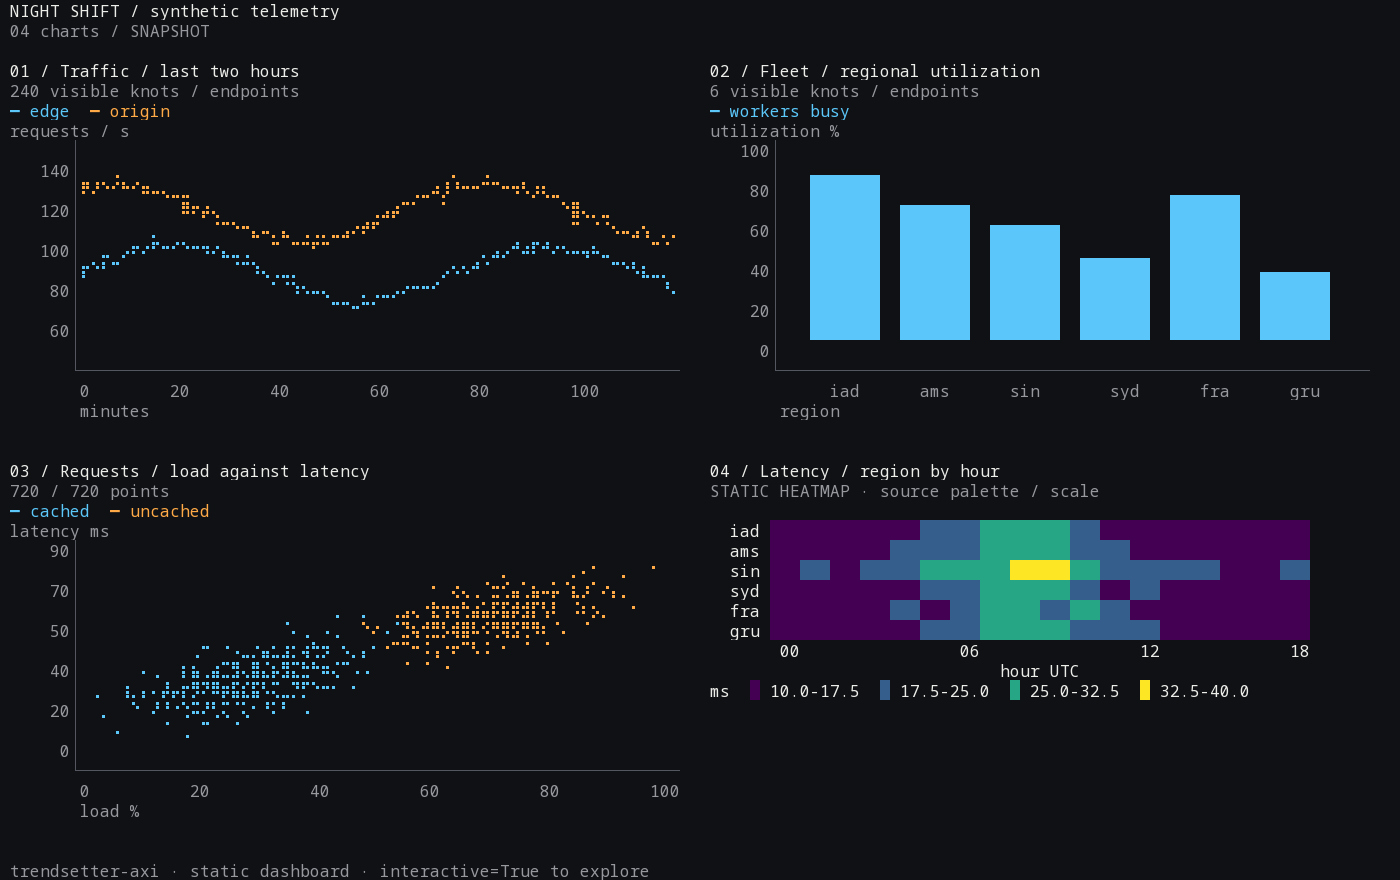
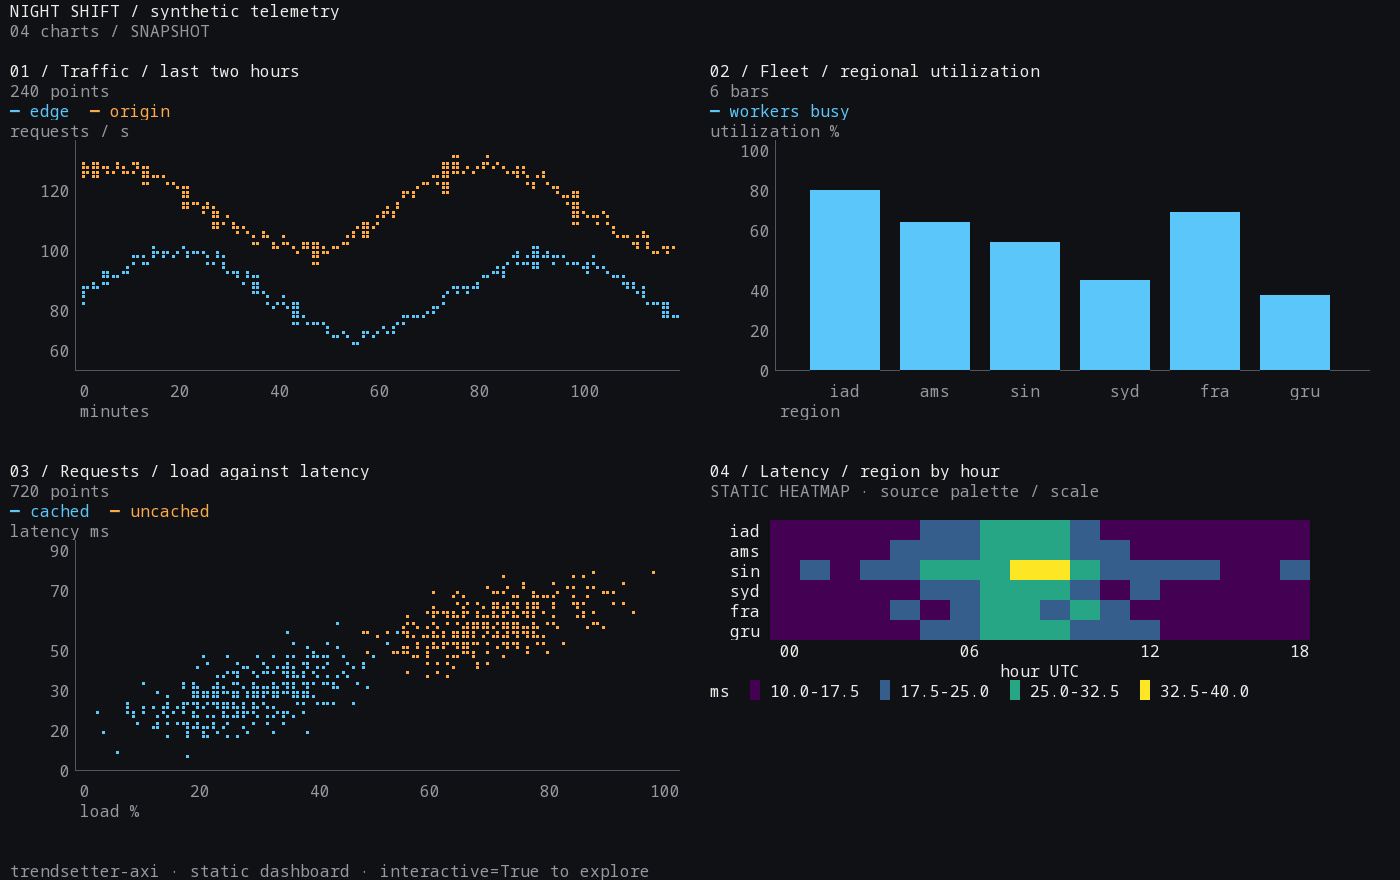
fix: anchor dashboard bars to zero axis

diff --git a/src/trendsetter_axi/dashboards.py b/src/trendsetter_axi/dashboards.py
@@ -112,7 +112,10 @@ def _plot(v, screen):
             for point in points:
                 c0, r0, c1, r1 = v.bar_bounds(point)
                 if all(map(math.isfinite, (c0, r0, c1, r1))):
-                    canvas.fill([[(c0, r0 * 2), (c1, r0 * 2), (c1, r1 * 2), (c0, r1 * 2)]],
+                    # Projection rows denote cell centers. Fill edges must use
+                    # the same center, especially at zero on the baseline.
+                    canvas.fill([[(c0, r0 * 2 + 1), (c1, r0 * 2 + 1),
+                                  (c1, r1 * 2 + 1), (c0, r1 * 2 + 1)]],
                                 tuple(c / 255 for c in rgb), clip=clip, role='data')
         elif m['kind'] == 'points':
             for a in points:
@@ -150,9 +153,10 @@ def _plot(v, screen):
 def _axes(v, screen):
     p, axis = v.projection, v.record['axes'][0]
     screen.put(3, 0, truncate(axis['y'].get('label') or 'y', v.cols), MUTED)
-    for r in range(p.top, p.top + p.rows):
+    bottom = p.top + p.rows - 1  # The projected minimum, not a row below it.
+    for r in range(p.top, bottom):
         screen.put(r, p.left - 1, '│', FAINT)
-    screen.put(p.top + p.rows, p.left - 1, '└' + '─' * p.cols, FAINT)
+    screen.put(bottom, p.left - 1, '└' + '─' * p.cols, FAINT)
     occupied = {'x': set(), 'y': set()}
     for k in 'xy':
         for tick in axis[k].get('ticks', []):
@@ -168,11 +172,11 @@ def _axes(v, screen):
                 if span & occupied[k]:
                     continue
                 occupied[k].update(span)
-                screen.put(p.top + p.rows + 1, c, label, MUTED)
+                screen.put(bottom + 1, c, label, MUTED)
             elif not {r - 1, r, r + 1} & occupied[k]:
                 occupied[k].add(r)
                 screen.put(r, 0, label.rjust(6), MUTED)
-    screen.put(p.top + p.rows + 2, p.left, truncate(axis['x'].get('label') or 'x', p.cols), MUTED)
+    screen.put(bottom + 2, p.left, truncate(axis['x'].get('label') or 'x', p.cols), MUTED)
 
 
 class Dashboard:
@@ -210,7 +214,7 @@ class Dashboard:
             v.cols, v.rows = tile.cols, tile.rows
             if not v.reason:
                 try:
-                    v.projection = Projection(v.record['axes'][0], 7, 4, tile.cols - 9, tile.rows - 8)
+                    v.projection = Projection(v.record['axes'][0], 7, 4, tile.cols - 9, tile.rows - 7)
                 except ValueError as exc:
                     v.reason = str(exc)
 
@@ -263,10 +267,18 @@ class Dashboard:
             _paste(screen, self.cache[index], 0, 3)
             return screen
         visible = [p for p in v.points if v.projection.visible(p.x, p.y)]
-        caption = f'{len(visible):,} visible knots / endpoints' if not v.has_scatter else f'{len(v.chosen()):,} / {sum(p.kind == "points" for p in visible):,} points'
+        has_bars = any(m['kind'] == 'bars' for m in v.record['marks'])
+        has_points = any(m['kind'] in ('line', 'points') for m in v.record['marks'])
+        counts = []
+        if has_points or not has_bars:
+            counts.append(f'{sum(p.kind != "bars" for p in visible):,} points')
+        if has_bars:
+            counts.append(f'{sum(p.kind == "bars" for p in visible):,} bars')
+        caption = ' · '.join(counts)
         if v.box:
             result = stats(v.chosen())
-            caption += f' selected · r={result["correlation"]:.3f}' if result['correlation'] is not None else ' selected · r=n/a'
+            caption = f'{len(v.chosen()):,} / {sum(p.kind == "points" for p in visible):,} points selected'
+            caption += f' · r={result["correlation"]:.3f}' if result['correlation'] is not None else ' · r=n/a'
         if any(m['kind'] == 'bars' and 'width' not in m for m in v.record['marks']):
             caption += ' · widths estimated'
         screen.put(1, 0, truncate(caption, t.cols), GOOD if v.box else MUTED)
@@ -278,8 +290,8 @@ class Dashboard:
             col += width(label) + 2
             if col >= t.cols:
                 break
-        _plot(v, screen)
         _axes(v, screen)
+        _plot(v, screen)  # Keep the bar's upper half-cell touching its baseline.
         return screen
 
     def frame(self, *, interactive=True, live=False):

diff --git a/tests/test_dashboard.py b/tests/test_dashboard.py
@@ -199,6 +199,74 @@ def test_original_figures_records_plain_render_and_limits_unchanged():
     assert ts.render(fig).text == text
 
 
+@pytest.mark.parametrize('cols,rows', [(120, 38), (140, 44), (160, 48)])
+def test_zero_based_bars_meet_axis_and_zero_tick(cols, rows):
+    ax = Figure().subplots()
+    ax.bar(['a', 'b', 'c'], [25, 50, 75])
+    ax.set_ylim(0, 100)
+    m = Dashboard([ax.figure])
+    m.layout(cols, rows)
+    v = m.viewers[0]
+    p = v.projection
+    screen = m._tile(0)
+    zero = round(p.cell(0, 0)[1])
+    assert screen.cells[zero][p.left - 1][0] == '└'
+    assert '0' in ''.join(cell[0] for cell in screen.cells[zero][:p.left - 1])
+    for point in v.points:
+        col = round(p.cell(point.x, 0)[0])
+        # The upper half of the baseline cell reaches the rule's centerline;
+        # no empty cell or half-cell sits between the bar and its zero axis.
+        assert screen.cells[zero][col][0] == '▀'
+        assert screen.cells[zero - 1][col][0] == '█'
+
+
+def test_bar_alignment_preserves_nonzero_bases_negative_and_zero_values():
+    ax = Figure().subplots()
+    ax.bar(['raised', 'negative', 'zero'], [4, -4, 0], bottom=[3, 0, 0])
+    ax.set_ylim(-10, 10)
+    m = Dashboard([ax.figure])
+    m.layout(120, 38)
+    v, screen = m.viewers[0], m._tile(0)
+    p = v.projection
+    raised, negative, zero = v.points
+    c = round(p.cell(raised.x, raised.base)[0])
+    base = p.cell(raised.x, raised.base)[1]
+    assert screen.cells[math.floor(base) + 2][c][0] == ' '
+    c, r = map(round, p.cell(negative.x, -2))
+    assert screen.cells[r][c][0] == '█'
+    c, r = map(round, p.cell(zero.x, zero.base))
+    assert screen.cells[r][c][0] == ' '
+
+
+def test_dashboard_count_labels_use_plain_chart_units():
+    m = model(('line', 'bar', 'scatter'))
+    assert m._tile(0).text(False).splitlines()[1].strip() == '3 points'
+    assert m._tile(1).text(False).splitlines()[1].strip() == '3 bars'
+    assert m._tile(2).text(False).splitlines()[1].strip() == '3 points'
+    assert 'knots' not in m.frame() and 'endpoints' not in m.frame()
+
+
+@pytest.mark.parametrize('step', [0, 1, 8, 20])
+def test_demo_line_limits_follow_data_with_small_balanced_padding(step):
+    from examples.dashboard_demo import make_figures
+
+    ax = make_figures(step)[0].axes[0]
+    values = [float(y) for line in ax.lines for y in line.get_ydata()]
+    lo, hi = ax.get_ylim()
+    span = max(values) - min(values)
+    assert 0 < min(values) - lo <= span * .1
+    assert 0 < hi - max(values) <= span * .1
+    m = Dashboard([ax.figure])
+    m.layout(69, 24)
+    screen = m._tile(0)
+    p = m.viewers[0].projection
+    labels = [r for r in range(p.top, p.top + p.rows)
+              if any(cell[0].strip() for cell in screen.cells[r][:p.left - 1])]
+    assert len(labels) >= 3
+    assert min(labels) <= p.top + 3 and max(labels) >= p.top + p.rows - 3
+    assert max(labels) - min(labels) >= p.rows // 2
+
+
 def test_saved_bars_disclose_estimated_widths():
     text = ts.dashboard([ts.from_figure(figure('bar'))], cols=140, rows=44, color=False)
     assert 'widths estimated' in text

diff --git a/examples/dashboard_demo.py b/examples/dashboard_demo.py
@@ -9,6 +9,7 @@ import argparse
 
 import numpy as np
 from matplotlib.figure import Figure
+from matplotlib.ticker import MultipleLocator
 
 from trendsetter_axi import dashboard
 
@@ -21,7 +22,9 @@ def make_figures(step=0):
     for label, offset, phase in [('edge', 0, 0), ('origin', 32, 1)]:
         y = 80 + offset + 15 * np.sin((time + step * 3) / 12 + phase) + rng.normal(0, 2, len(time))
         ax.plot(time, y, label=label)
-    ax.set(xlim=(0, 119), ylim=(45, 150), xlabel='minutes', ylabel='requests / s', title='Traffic / last two hours')
+    ax.set(xlim=(0, 119), xlabel='minutes', ylabel='requests / s', title='Traffic / last two hours')
+    ax.margins(y=.08)
+    ax.yaxis.set_major_locator(MultipleLocator(20))
 
     ax = figures[1].subplots()
     ax.bar(['iad', 'ams', 'sin', 'syd', 'fra', 'gru'],

diff --git a/examples/record_interaction.py b/examples/record_interaction.py
@@ -52,6 +52,8 @@ def screenshot(screen, font, cache):
                             d.rectangle([px, py, px + 2, py + 2], fill=fg)
                 elif char == '█':
                     d.rectangle([0, 0, CW, CH], fill=fg)
+                elif char == '▀':
+                    d.rectangle([0, 0, CW, CH // 2 - 1], fill=fg)
                 elif 0x2581 <= o <= 0x2587:
                     d.rectangle([0, CH - round((o - 0x2580) * CH / 8), CW, CH], fill=fg)
                 elif 0x2589 <= o <= 0x258f:
